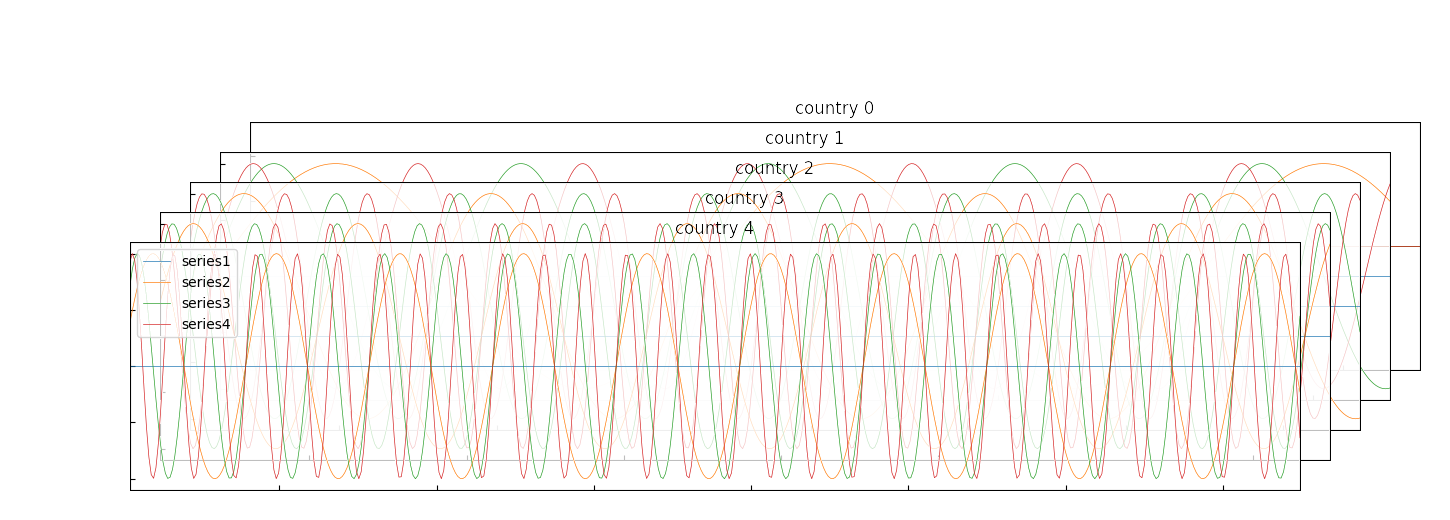
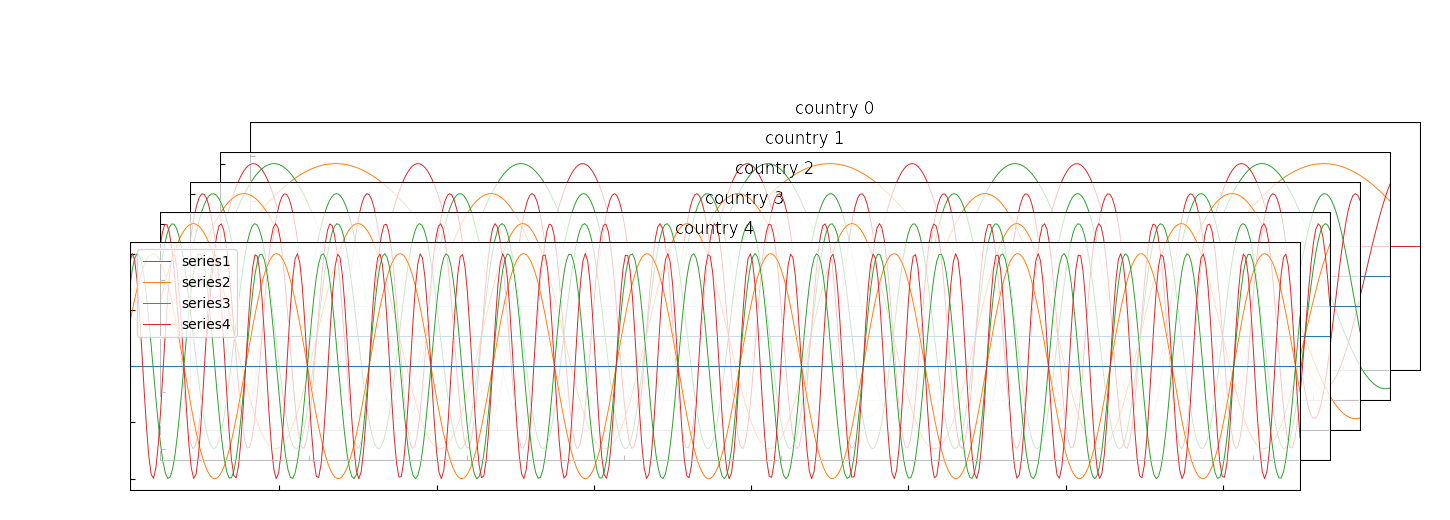
modify sample1.png

diff --git a/src/main.py b/src/main.py
@@ -12,9 +12,9 @@ def main():
     plot = TensorPlot()
     for i, series in enumerate(tensors):
         labels = ["series1", "series2", "series3", "series4"] if i == len(tensors) - 1 else []
-        plot.add_series(Series(times, series.transpose(), title=f"country {i}", labels=labels, linewidth=0.5))
+        plot.add_series(Series(times, series.transpose(), title=f"country {i}", labels=labels, linewidth=0.7))
     plot.set_alpha(220)
-    plot.plot_tensor("outputs/test2.png")
+    plot.plot_tensor("outputs/sample2.png")
 
 
 if __name__ == "__main__":

diff --git a/README.md b/README.md
@@ -10,4 +10,15 @@
 - figsize
 
 ## output
+### Simple Tensor
+``` python
+    times = np.arange(1, 150, 0.3)
+    tensors = np.array([[sin_func(times, 0.1 * i * j) for j in range(4)] for i in range(5)])
+    tpl = TensorPlot()
+    for i, series in enumerate(tensors):
+        labels = ["series1", "series2", "series3", "series4"] if i == len(tensors) - 1 else []
+        tpl.add_series(Series(times, series.transpose(), title=f"country {i}", labels=labels, linewidth=0.7))
+    tpl.set_alpha(220)
+    tpl.plot_tensor("outputs/sample1.png")
+```
 ![](./outputs/sample1.png)
